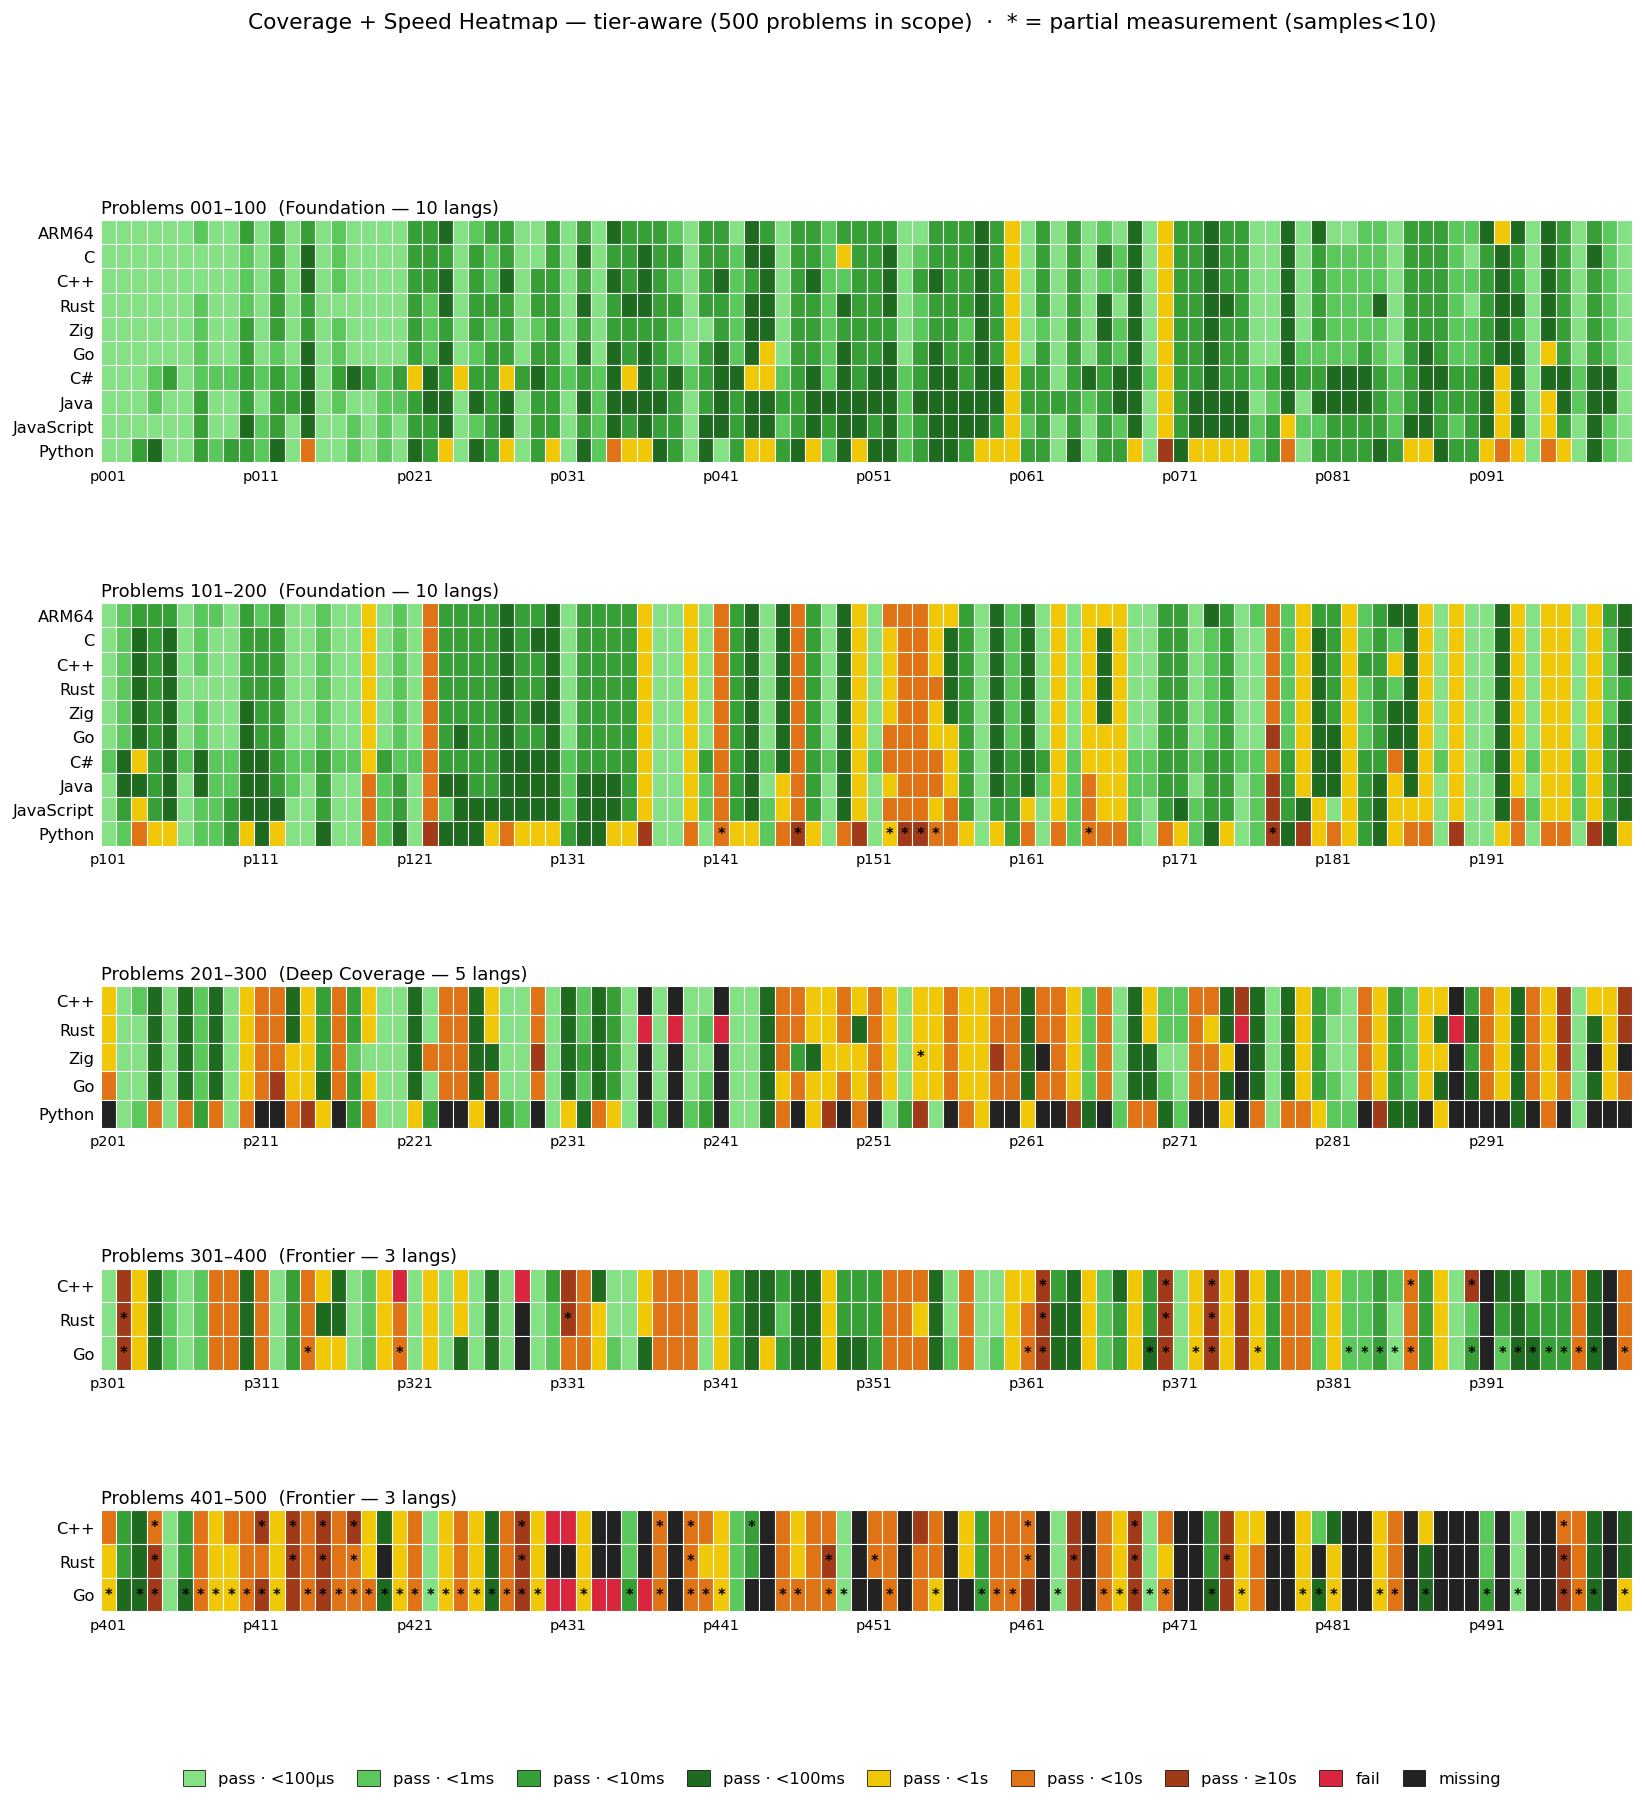
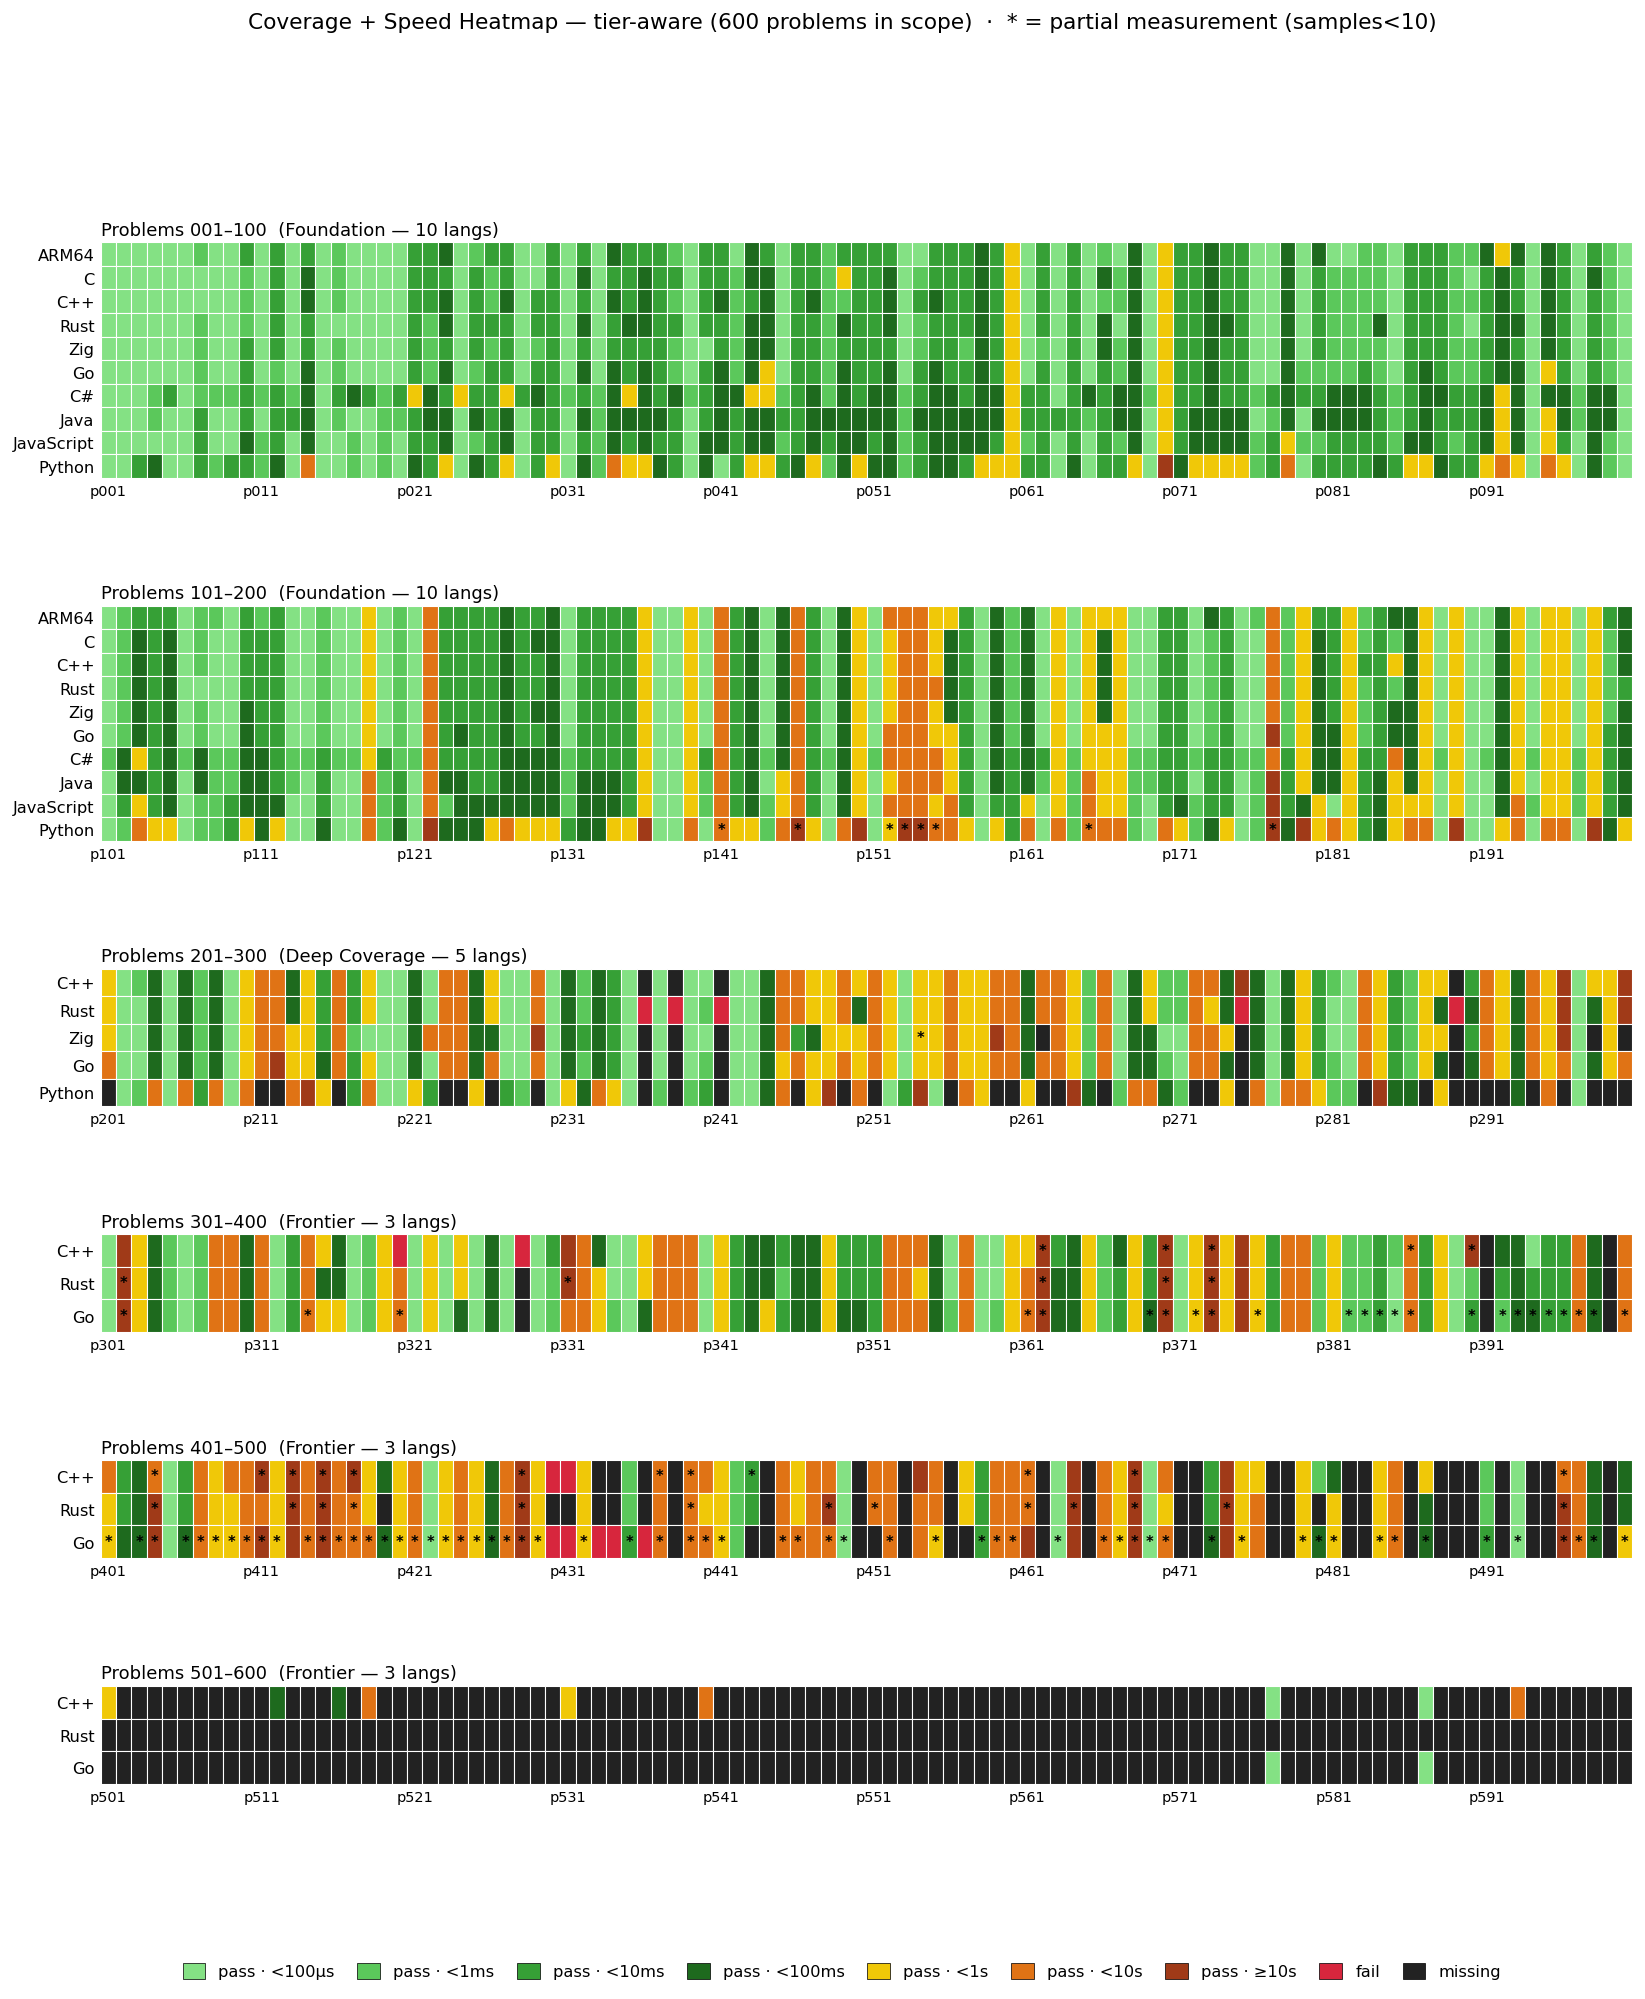
tier-3 frontier 501-600: +11 cells (cpp ×9, go ×2); report cap 500→600

diff --git a/report.py b/report.py
@@ -56,7 +56,7 @@ from tiers import (  # noqa: E402
 _TIERS = load_tiers()
 
 # Scope: cover tier-1 Foundation + tier-2 Deep Coverage + tier-3 Frontier
-# (capped at 500 because tier-3 hi is unbounded but we don't iterate forever).
+# (capped at 600 because tier-3 hi is unbounded but we don't iterate forever).
 # Per-tier rendering filters out langs that aren't in scope for a given band
 # (e.g., ARM64 doesn't appear in 201+ bands — it's tier-1 only; python/zig
 # don't appear in 301+ bands — they're tier-1+tier-2 only). Partial-coverage
@@ -65,8 +65,8 @@ _TIERS = load_tiers()
 # the grid and excludes it from per-lang totals.
 _T2_HI = tier_problem_range("tier_2_deep_coverage", _TIERS)[1] or 300
 _T3_LO = tier_problem_range("tier_3_frontier", _TIERS)[0] or 301
-# Display cap: max(t2_hi, 500) covers current tier-3 work range with headroom.
-_DISPLAY_HI = max(_T2_HI, 500)
+# Display cap: max(t2_hi, 600) covers current tier-3 work range with headroom.
+_DISPLAY_HI = max(_T2_HI, 600)
 SCOPE_PROBLEMS = [f"{i:03d}" for i in range(1, _DISPLAY_HI + 1)]
 
 # Languages — used for data loading and the total-cost bar chart.  Alphabetic

diff --git a/RESULTS.md b/RESULTS.md
@@ -1,12 +1,12 @@
 # Project Euler — Cross-Language Benchmarks
 
-> **Scope: 3100 in-scope cells across 500 problems × tiered languages — 2951 measured (95.2% coverage).**
+> **Scope: 3400 in-scope cells across 600 problems × tiered languages — 2962 measured (87.1% coverage).**
 > The cross-language ranking below is computed over the **200-problem common set** (problems in 1-200 where every language has a passing measurement) — the apples-to-apples Foundation comparison surface.  Per-tier rankings and coverage detail appear further below.
 > Growing carefully — each new problem and language is audited for state-leak
 > safety, verified for answer correctness, and added only when it cleanly fits the
 > measurement methodology.  See [JOURNEY.md](JOURNEY.md) for the full story of how
 > we got here, including the reset from 200+ problems back to a verified 10×10
-> core, then the disciplined expansion to today's 500-problem scope.
+> core, then the disciplined expansion to today's 600-problem scope.
 
 ## Foundation — Tier 1 (10 languages, problems 1-200)
 
@@ -68,7 +68,7 @@ Same scatter as the Foundation chart, restricted to the tier-2 active languages 
 
 The frontier verification trio — C++, Go, Rust — on problems above 300. 3-way cross-language agreement is the verification protocol (strictly stronger than 2-way; see JOURNEY.md "Tier Reframing" episode for the p254 lesson that motivated it). Python and Zig are explicitly out of this tier — python's wall cost makes it impractical at level 5+, and zig's role caps at Tier 2.
 
-### Per-Invocation Cost (Common Set, 165 of ≤200 problems in scope)
+### Per-Invocation Cost (Common Set, 165 of ≤300 problems in scope)
 
 ![Per-Invocation Cost — Tier 3](charts/per_iter_total_tier3.png)
 
@@ -101,7 +101,7 @@ invocation-isolation + answer-correctness audit and how fast it runs:
 
 Rows are in fixed tier order (native → managed → interpreted) so the chart
 doesn't reshuffle between snapshots as ranking-by-total drifts.  Problems are
-chunked into bands of 100 (currently 5 bands), which keeps cells legibly sized as we extend
+chunked into bands of 100 (currently 6 bands), which keeps cells legibly sized as we extend
 toward the 1000-problem target.  Native compiled rows (ARM64 / C / C++ / Rust /
 Zig) sit near the top in mostly bright-green territory; managed-runtime rows
 (C# / Java / JavaScript) carry darker greens and scattered amber from JIT
@@ -113,7 +113,7 @@ language.  No red or black cells: the audit gate is holding.
 ## Per-Problem Detail
 
 Median wall time per fresh-process invocation, for each (language, problem).
-Split across 5 pages, one per 100-problem band, so this main page stays navigable.  Each band's table is tier-filtered (10 langs in Foundation bands, 5 in Deep Coverage).
+Split across 6 pages, one per 100-problem band, so this main page stays navigable.  Each band's table is tier-filtered (10 langs in Foundation bands, 5 in Deep Coverage).
 
 | Band | Tier | Languages | Page |
 |------|------|-----------|------|
@@ -122,6 +122,7 @@ Split across 5 pages, one per 100-problem band, so this main page stays navigabl
 | p201–p300 | Deep Coverage | 5 | [Open](per_problem/per_problem_201-300.md) |
 | p301–p400 | Frontier | 3 | [Open](per_problem/per_problem_301-400.md) |
 | p401–p500 | Frontier | 3 | [Open](per_problem/per_problem_401-500.md) |
+| p501–p600 | Frontier | 3 | [Open](per_problem/per_problem_501-600.md) |
 
 ## Method
 
@@ -170,7 +171,7 @@ the honest cost of the language model under a CLI-invocation workload.
 
 ### Note on Zig timings (comptime-fold bias)
 
-> Of the 500 problems benchmarked, **roughly 20-25% of cells** are fully
+> Of the 600 problems benchmarked, **roughly 20-25% of cells** are fully
 > constant-foldable under Zig's `-O ReleaseFast` flag: the inputs are compile-time
 > literals and the arithmetic is pure, so the optimizer reduces `solve()` to a
 > constant return.  Known fold-candidates include p001, p002, p005, p006, p009,
@@ -244,7 +245,7 @@ language honesty — the OS enforces it for free.
 
 ```bash
 cd pe/benchmarks
-cmd/euler-bench/euler-bench per-iter --lang all --problems 1-500 --iters 10 --write
+cmd/euler-bench/euler-bench per-iter --lang all --problems 1-600 --iters 10 --write
 python3 report.py
 ```
 

diff --git a/per_problem/per_problem_501-600.md b/per_problem/per_problem_501-600.md
@@ -1,0 +1,111 @@
+# Per-Problem Detail — Problems 501–600 (Frontier, 3 langs)
+
+⬅ [Back to RESULTS](../RESULTS.md)
+
+Median wall time per fresh-process invocation, one row per problem, one
+column per language in tier-1 display order (native → managed → interpreted).
+
+| Problem | C++ | Rust | Go |
+|---------|----:|----:|----:|
+| **p501** | 516.65 ms | — | — |
+| **p502** | — | — | — |
+| **p503** | — | — | — |
+| **p504** | — | — | — |
+| **p505** | — | — | — |
+| **p506** | — | — | — |
+| **p507** | — | — | — |
+| **p508** | — | — | — |
+| **p509** | — | — | — |
+| **p510** | — | — | — |
+| **p511** | — | — | — |
+| **p512** | 16.14 ms | — | — |
+| **p513** | — | — | — |
+| **p514** | — | — | — |
+| **p515** | — | — | — |
+| **p516** | 58.28 ms | — | — |
+| **p517** | — | — | — |
+| **p518** | 2.36 s | — | — |
+| **p519** | — | — | — |
+| **p520** | — | — | — |
+| **p521** | — | — | — |
+| **p522** | — | — | — |
+| **p523** | — | — | — |
+| **p524** | — | — | — |
+| **p525** | — | — | — |
+| **p526** | — | — | — |
+| **p527** | — | — | — |
+| **p528** | — | — | — |
+| **p529** | — | — | — |
+| **p530** | — | — | — |
+| **p531** | 676.24 ms | — | — |
+| **p532** | — | — | — |
+| **p533** | — | — | — |
+| **p534** | — | — | — |
+| **p535** | — | — | — |
+| **p536** | — | — | — |
+| **p537** | — | — | — |
+| **p538** | — | — | — |
+| **p539** | — | — | — |
+| **p540** | 1.09 s | — | — |
+| **p541** | — | — | — |
+| **p542** | — | — | — |
+| **p543** | — | — | — |
+| **p544** | — | — | — |
+| **p545** | — | — | — |
+| **p546** | — | — | — |
+| **p547** | — | — | — |
+| **p548** | — | — | — |
+| **p549** | — | — | — |
+| **p550** | — | — | — |
+| **p551** | — | — | — |
+| **p552** | — | — | — |
+| **p553** | — | — | — |
+| **p554** | — | — | — |
+| **p555** | — | — | — |
+| **p556** | — | — | — |
+| **p557** | — | — | — |
+| **p558** | — | — | — |
+| **p559** | — | — | — |
+| **p560** | — | — | — |
+| **p561** | — | — | — |
+| **p562** | — | — | — |
+| **p563** | — | — | — |
+| **p564** | — | — | — |
+| **p565** | — | — | — |
+| **p566** | — | — | — |
+| **p567** | — | — | — |
+| **p568** | — | — | — |
+| **p569** | — | — | — |
+| **p570** | — | — | — |
+| **p571** | — | — | — |
+| **p572** | — | — | — |
+| **p573** | — | — | — |
+| **p574** | — | — | — |
+| **p575** | — | — | — |
+| **p576** | — | — | — |
+| **p577** | 3.0 µs | — | 6.6 µs |
+| **p578** | — | — | — |
+| **p579** | — | — | — |
+| **p580** | — | — | — |
+| **p581** | — | — | — |
+| **p582** | — | — | — |
+| **p583** | — | — | — |
+| **p584** | — | — | — |
+| **p585** | — | — | — |
+| **p586** | — | — | — |
+| **p587** | 22.9 µs | — | 39.0 µs |
+| **p588** | — | — | — |
+| **p589** | — | — | — |
+| **p590** | — | — | — |
+| **p591** | — | — | — |
+| **p592** | — | — | — |
+| **p593** | 1.58 s | — | — |
+| **p594** | — | — | — |
+| **p595** | — | — | — |
+| **p596** | — | — | — |
+| **p597** | — | — | — |
+| **p598** | — | — | — |
+| **p599** | — | — | — |
+| **p600** | — | — | — |
+
+⬅ [Back to RESULTS](../RESULTS.md)
